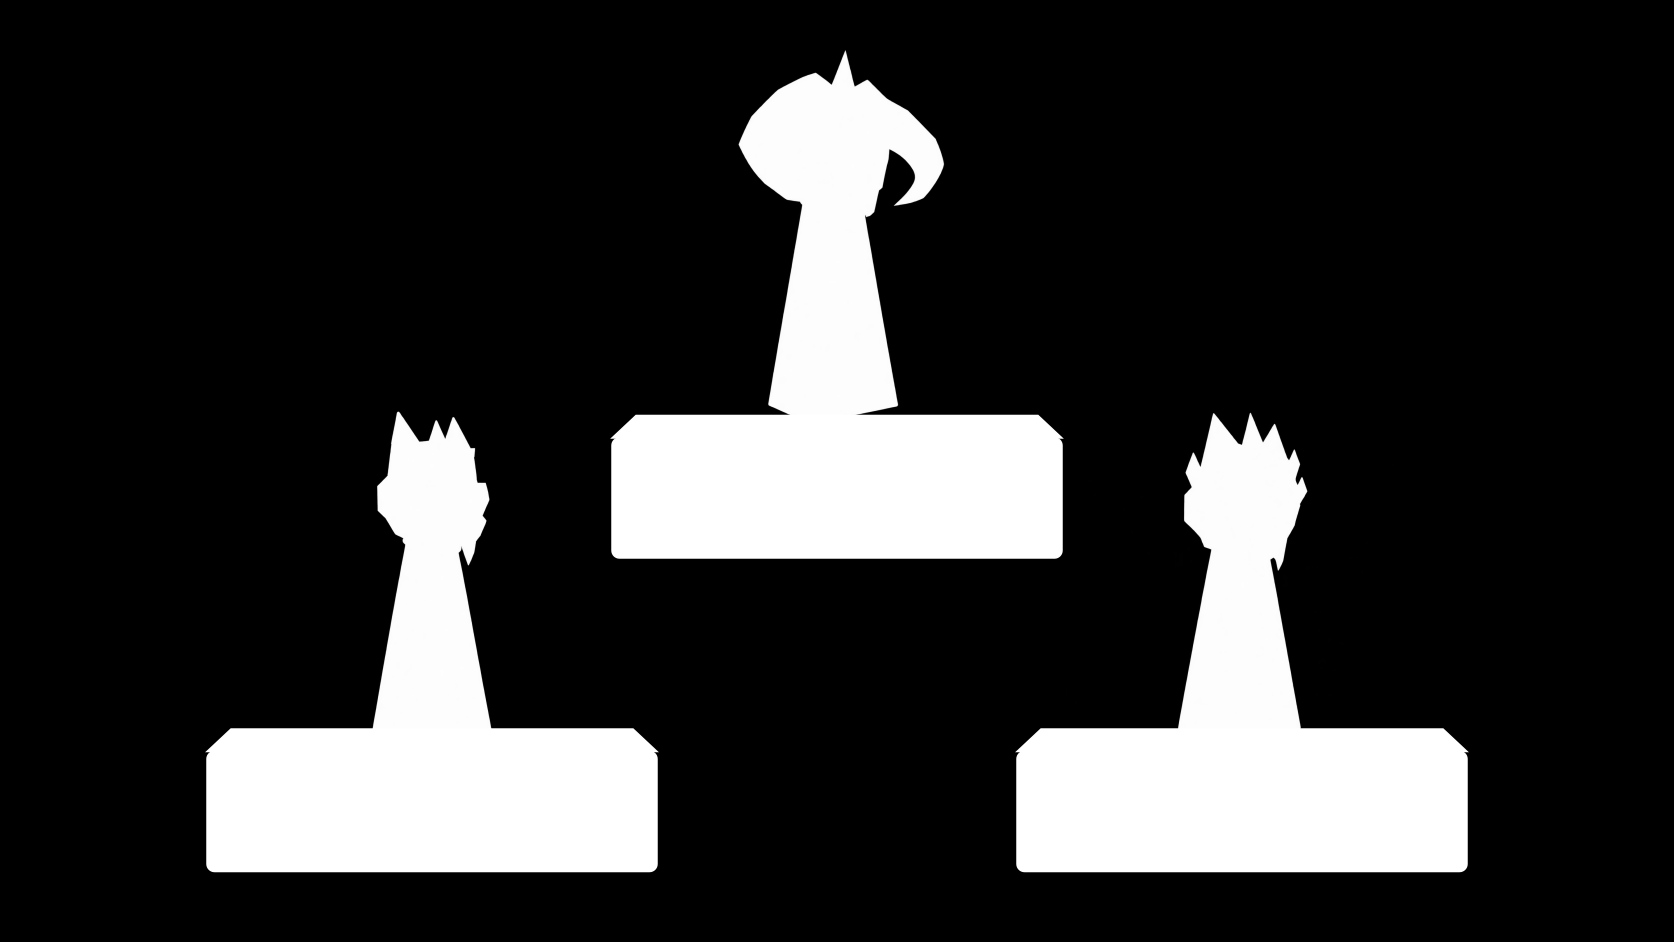
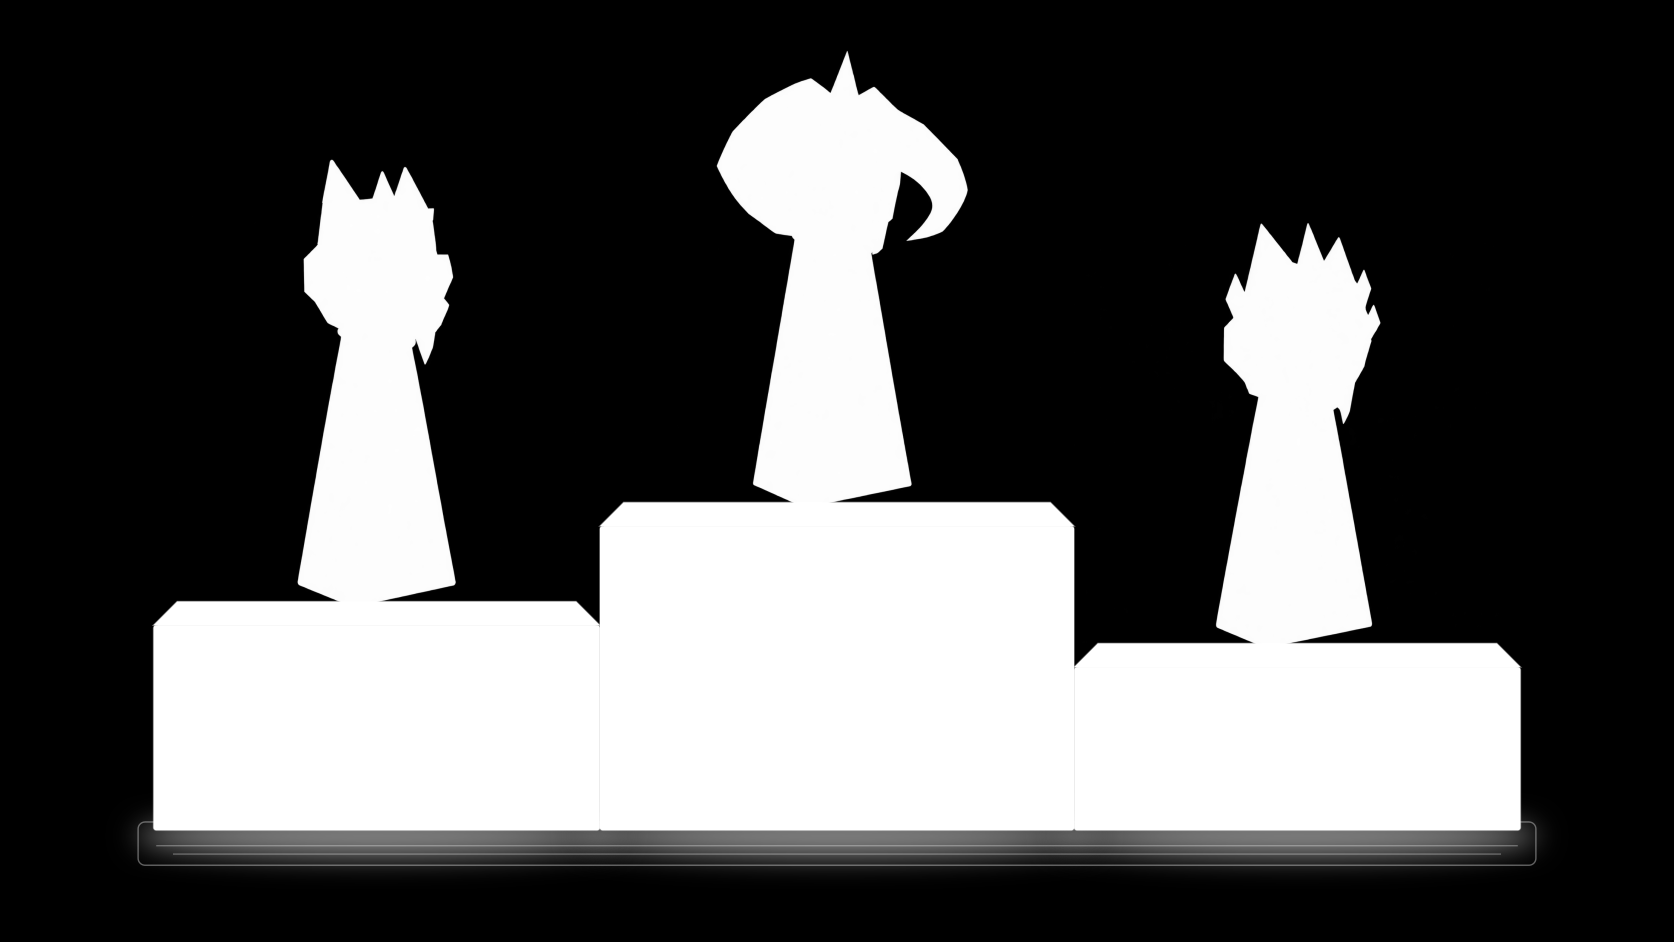
Use the approved gold-halo Medal Hall podium

Changed region(s): [[0.0621, 0.1847, 0.9319, 0.9544], [0.4038, 0.1231, 0.5902, 0.2771], [0.4659, 0.0616, 0.5281, 0.0924]]

diff --git a/podium_image.py b/podium_image.py
@@ -13,13 +13,16 @@ ANIMATED_FILENAME = "novus-live-podium.webp"
 LEGACY_ANIMATED_FILENAME = "novus-live-podium.gif"
 ASSETS = Path(__file__).parent / "assets" / "podium"
 FONT = "/usr/share/fonts/truetype/dejavu/DejaVuSans-Bold.ttf"
-PLATES = (
-    (837, 426, 450, "#f6c77e"),
-    (432, 740, 450, "#c5d5ec"),
-    (1242, 740, 450, "#eaa477"),
+# The approved Medal Hall composition, rasterized at production size.
+SCALE = 1674 / 1200
+PLATES = tuple(
+    (round(x * SCALE), round(deck * SCALE), round(width * SCALE), tone)
+    for x, deck, width, tone in ((600, 364, 340, "#ffd495"),
+                                  (270, 435, 320, "#c7e6ff"),
+                                  (930, 465, 320, "#ffb481"))
 )
 COUNT_KEYS = ("firsts", "seconds", "thirds")
-COUNT_COLORS = ("#f6c77e", "#c5d5ec", "#eaa477")
+COUNT_COLORS = ("#ffd495", "#c7e6ff", "#ffb481")
 
 
 @lru_cache(maxsize=16)
@@ -55,23 +58,18 @@ def _label_fields(entries, names):
 
 
 def render_podium_animation(entries, names):
-    """Superimpose live standings on the pre-rendered six-second loop."""
+    """Animate the fixed artwork with live standings on the nameplates."""
     return _animate_fields(_label_fields(entries, names))
 
 
-# Coordinates are in the approved 1116 by 628 stage drawing, whose layers
-# were translated up 72 units. The production artwork is exactly 1.5x scale.
+# These are the common aura anchors and colors from the approved preview.
 MOTION_ZONES = (
-    ((558,220,175,136), (255,230,159),
-     ((439,161,.1,5.6), (666,170,1.2,6.5), (700,249,2.4,4), (413,232,4,3), (460,265,5,3))),
-    ((288,468,152,120), (197,231,255),
-     ((182,418,1.7,5.6), (377,432,.8,5.2), (157,474,3.2,4), (399,493,4.8,3))),
-    ((828,468,152,120), (255,181,129),
-     ((725,421,.2,5.1), (928,431,1.2,5.5), (707,494,3.2,3), (945,481,4.4,4))),
+    (600, 364 - 339 * .54, (255, 212, 149)),
+    (270, 435 - 335 * .54, (199, 230, 255)),
+    (930, 465 - 320 * .54, (255, 180, 129)),
 )
 FRAME_COUNT = 60
 FRAME_DELAY_MS = 100
-SCALE = 1.5
 
 
 @lru_cache(maxsize=1)
@@ -97,31 +95,48 @@ def _paint_glow(canvas, x, y, rx, ry, color, intensity):
 def _motion_frame(still, mask, index):
     frame = still.copy()
     phase = tau * index / FRAME_COUNT
-    for j, ((x,y,rx,ry), color, stars) in enumerate(MOTION_ZONES):
-        pulse = (1 + sin(phase-j*.9))/2
-        _paint_glow(frame,round(x*SCALE),round((y-72)*SCALE),
-                    round(rx*SCALE),round(ry*SCALE),color,
-                    (.09+.10*pulse) if j==0 else (.07+.08*pulse))
-        for sx,sy,offset,radius in stars:
-            px=round((sx+8*sin(phase+offset))*SCALE)
-            py=round((sy-72+11*cos(phase+offset))*SCALE)
-            twinkle=((1+sin(phase+offset))/2)**1.7
-            strength=.13+.57*twinkle
-            scale=radius*(.64+.36*twinkle)*SCALE
-            glow=max(2,round(scale*2.3))
-            _paint_glow(frame,px,py,glow,glow,color,strength*.46)
-            r=max(1,round(scale))
-            star=Image.new("RGBA",(2*r+1,2*r+1))
-            draw=ImageDraw.Draw(star)
-            fill=color+(round(strength*255),)
-            if radius>=4.4:
-                n=max(1,round(r*.19))
-                draw.polygon(((r,0),(r+n,r-n),(2*r,r),(r+n,r+n),(r,2*r),
-                              (r-n,r+n),(0,r),(r-n,r-n)),fill=fill)
-            else:
-                d=max(1,round(r*.34))
-                draw.ellipse((r-d,r-d,r+d,r+d),fill=fill)
-            frame.alpha_composite(star,(px-r,py-r))
+    pulse = (1 + sin(phase)) / 2
+    for j, (x, y, color) in enumerate(MOTION_ZONES):
+        def glow(px, py, rx, ry, shade, intensity):
+            _paint_glow(frame, round(px*SCALE), round(py*SCALE),
+                        max(2, round(rx*SCALE)), max(2, round(ry*SCALE)),
+                        shade, intensity)
+
+        glow(x, y, 161, 157, color, .37 + .10*pulse + (.055 if j == 0 else 0))
+        if j == 0:
+            glow(x, y, 200, 177, color, .15 + .06*pulse)
+            overlay = Image.new("RGBA", frame.size)
+            mark = ImageDraw.Draw(overlay)
+            ring = tuple(round(v*SCALE) for v in (x-176, 211-176, x+176, 211+176))
+            mark.ellipse(ring, outline=(232,184,103,round(255*(.22+.09*pulse))), width=2)
+            for offset in (0, tau/2):
+                angle = phase + offset - 1.1
+                mark.arc(ring, (angle-.63)*360/tau, angle*360/tau,
+                         fill=(255,206,130,140), width=2)
+                ex, ey = x+176*cos(angle), 211+176*sin(angle)
+                glow(ex, ey, 12, 12, color, .60)
+                px, py = ex*SCALE, ey*SCALE
+                mark.ellipse((px-3, py-3, px+3, py+3), fill=(255,223,158,255))
+            frame.alpha_composite(overlay)
+        for ox, oy, offset, radius in ((116,-43,.7,5),(91,49,3.4,2.7)):
+            angle = phase + offset
+            strength = .27+.57*((1+sin(angle))/2)**2
+            for side in (-1,1):
+                px = x+side*(ox+4*sin(angle))
+                py = y+oy+6*cos(angle)
+                glow(px, py, radius*3, radius*3, color, strength*.55)
+                r = max(2, round(radius*SCALE))
+                star = Image.new("RGBA",(2*r+1,2*r+1))
+                pen = ImageDraw.Draw(star)
+                fill = color+(round(strength*255),)
+                if radius >= 5:
+                    n = max(1, round(r*.18))
+                    pen.polygon(((r,0),(r+n,r-n),(2*r,r),(r+n,r+n),(r,2*r),
+                                 (r-n,r+n),(0,r),(r-n,r-n)), fill=fill)
+                else:
+                    d = max(1, round(r*.55))
+                    pen.ellipse((r-d,r-d,r+d,r+d), fill=fill)
+                frame.alpha_composite(star,(round(px*SCALE)-r,round(py*SCALE)-r))
     return Image.composite(still,frame,mask)
 
 
@@ -162,26 +177,14 @@ def _animate_fields(fields):
 
 @lru_cache(maxsize=1)
 def _base_artwork():
-    """Build the fixed background, including the miniature trophy icons."""
-    with Image.open(ASSETS / "stage.webp") as art, Image.open(ASSETS / "trophy-icons.png") as icons:
+    """Load the approved trophies, stage, and fixed miniature icons."""
+    with Image.open(ASSETS / "stage.webp") as art:
         image = art.convert("RGBA")
-        glyphs = [icons.crop((i * 40, 0, (i + 1) * 40, 48)) for i in range(3)]
-    draw = ImageDraw.Draw(image)
-    anchors = []
-    for index, (x, y, _, _) in enumerate(PLATES):
-        # Set icon positions to the original composition, independent of the
-        # displayed count. The top pedestal's first count had two digits.
-        guides = ("× 00" if index == 0 else "× 0", "× 0", "× 0")
-        widths = [40 + int(draw.textlength(label, font=font(22)) + 1) for label in guides]
-        gap = 13
-        left = x - (sum(widths) + gap * 2) // 2
-        plate_anchors = []
-        for slot_width, glyph in zip(widths, glyphs):
-            image.alpha_composite(glyph, (left, y + 75))
-            plate_anchors.append((left + 40, y + 99))
-            left += slot_width + gap
-        anchors.append(tuple(plate_anchors))
-    return image, tuple(anchors)
+    anchors = tuple(
+        tuple((x+round((-129+89*j+37)*SCALE), y+round(113*SCALE)) for j in range(3))
+        for x, y, _, _ in PLATES
+    )
+    return image, anchors
 
 
 @lru_cache(maxsize=8)
@@ -191,11 +194,13 @@ def _render_fields(fields):
     image = artwork.copy()
     draw = ImageDraw.Draw(image)
     for (display_name, points, counts), (x, y, width, accent), labels in zip(fields, PLATES, anchors):
-        name, face = fit_name(draw, display_name, width - 38)
-        draw.text((x, y + 32), name, font=face, anchor="mm", fill="#f8f4ff")
-        draw.text((x, y + 62), f"{points} PTS", font=font(26), anchor="mm", fill=accent)
+        name, face = fit_name(draw, display_name, width - 40, sizes=(34, 31, 28, 25, 23))
+        draw.text((x, y + round(49*SCALE)), name, font=face, anchor="ms", fill="#f8f4ff")
+        draw.text((x, y + round(76*SCALE)), f"{points} PTS", font=font(27), anchor="ms", fill=accent)
         for count, position, color in zip(counts, labels, COUNT_COLORS):
-            draw.text(position, f"× {count}", font=font(22), anchor="lm", fill=color)
+            label = f"×{count}"
+            fitted, count_font = fit_name(draw, label, round(50*SCALE), sizes=(31, 28, 25, 22, 19))
+            draw.text(position, fitted, font=count_font, anchor="ls", fill=color)
     output = BytesIO()
     image.save(output, format="PNG")
     return output.getvalue()

diff --git a/tests/test_pb_podium.py b/tests/test_pb_podium.py
@@ -86,7 +86,7 @@ class PodiumTests(unittest.IsolatedAsyncioTestCase):
             preview.seek(28)
             middle=preview.convert("RGB")
             self.assertIsNotNone(ImageChops.difference(first,middle).getbbox())
-            for box in ((621,442,1052,545),(215,758,645,862),(1028,758,1450,862)):
+            for box in ((608,545,1064,676),(160,650,590,774),(1088,693,1512,822)):
                 self.assertIsNone(ImageChops.difference(first.crop(box),middle.crop(box)).getbbox())
             with Image.open(BytesIO(render_podium(rows[:3],names))) as static:
                 diff = ImageChops.difference(first,static.convert("RGB"))
@@ -168,9 +168,9 @@ class PodiumTests(unittest.IsolatedAsyncioTestCase):
             erase = ImageDraw.Draw(changes)
             _, anchors = _base_artwork()
             for (x, y, width, _), positions in zip(PLATES, anchors):
-                erase.rectangle((x-width//2, y+13, x+width//2, y+77), fill="black")
+                erase.rectangle((x-width//2, y+38, x+width//2, y+110), fill="black")
                 for tx, ty in positions:
-                    erase.rectangle((tx, ty-15, tx+61, ty+15), fill="black")
+                    erase.rectangle((tx, ty-30, tx+71, ty+4), fill="black")
             self.assertIsNone(changes.getbbox())
 
     async def test_clears_alt_only_on_bot_owned_podium_copies(self):
